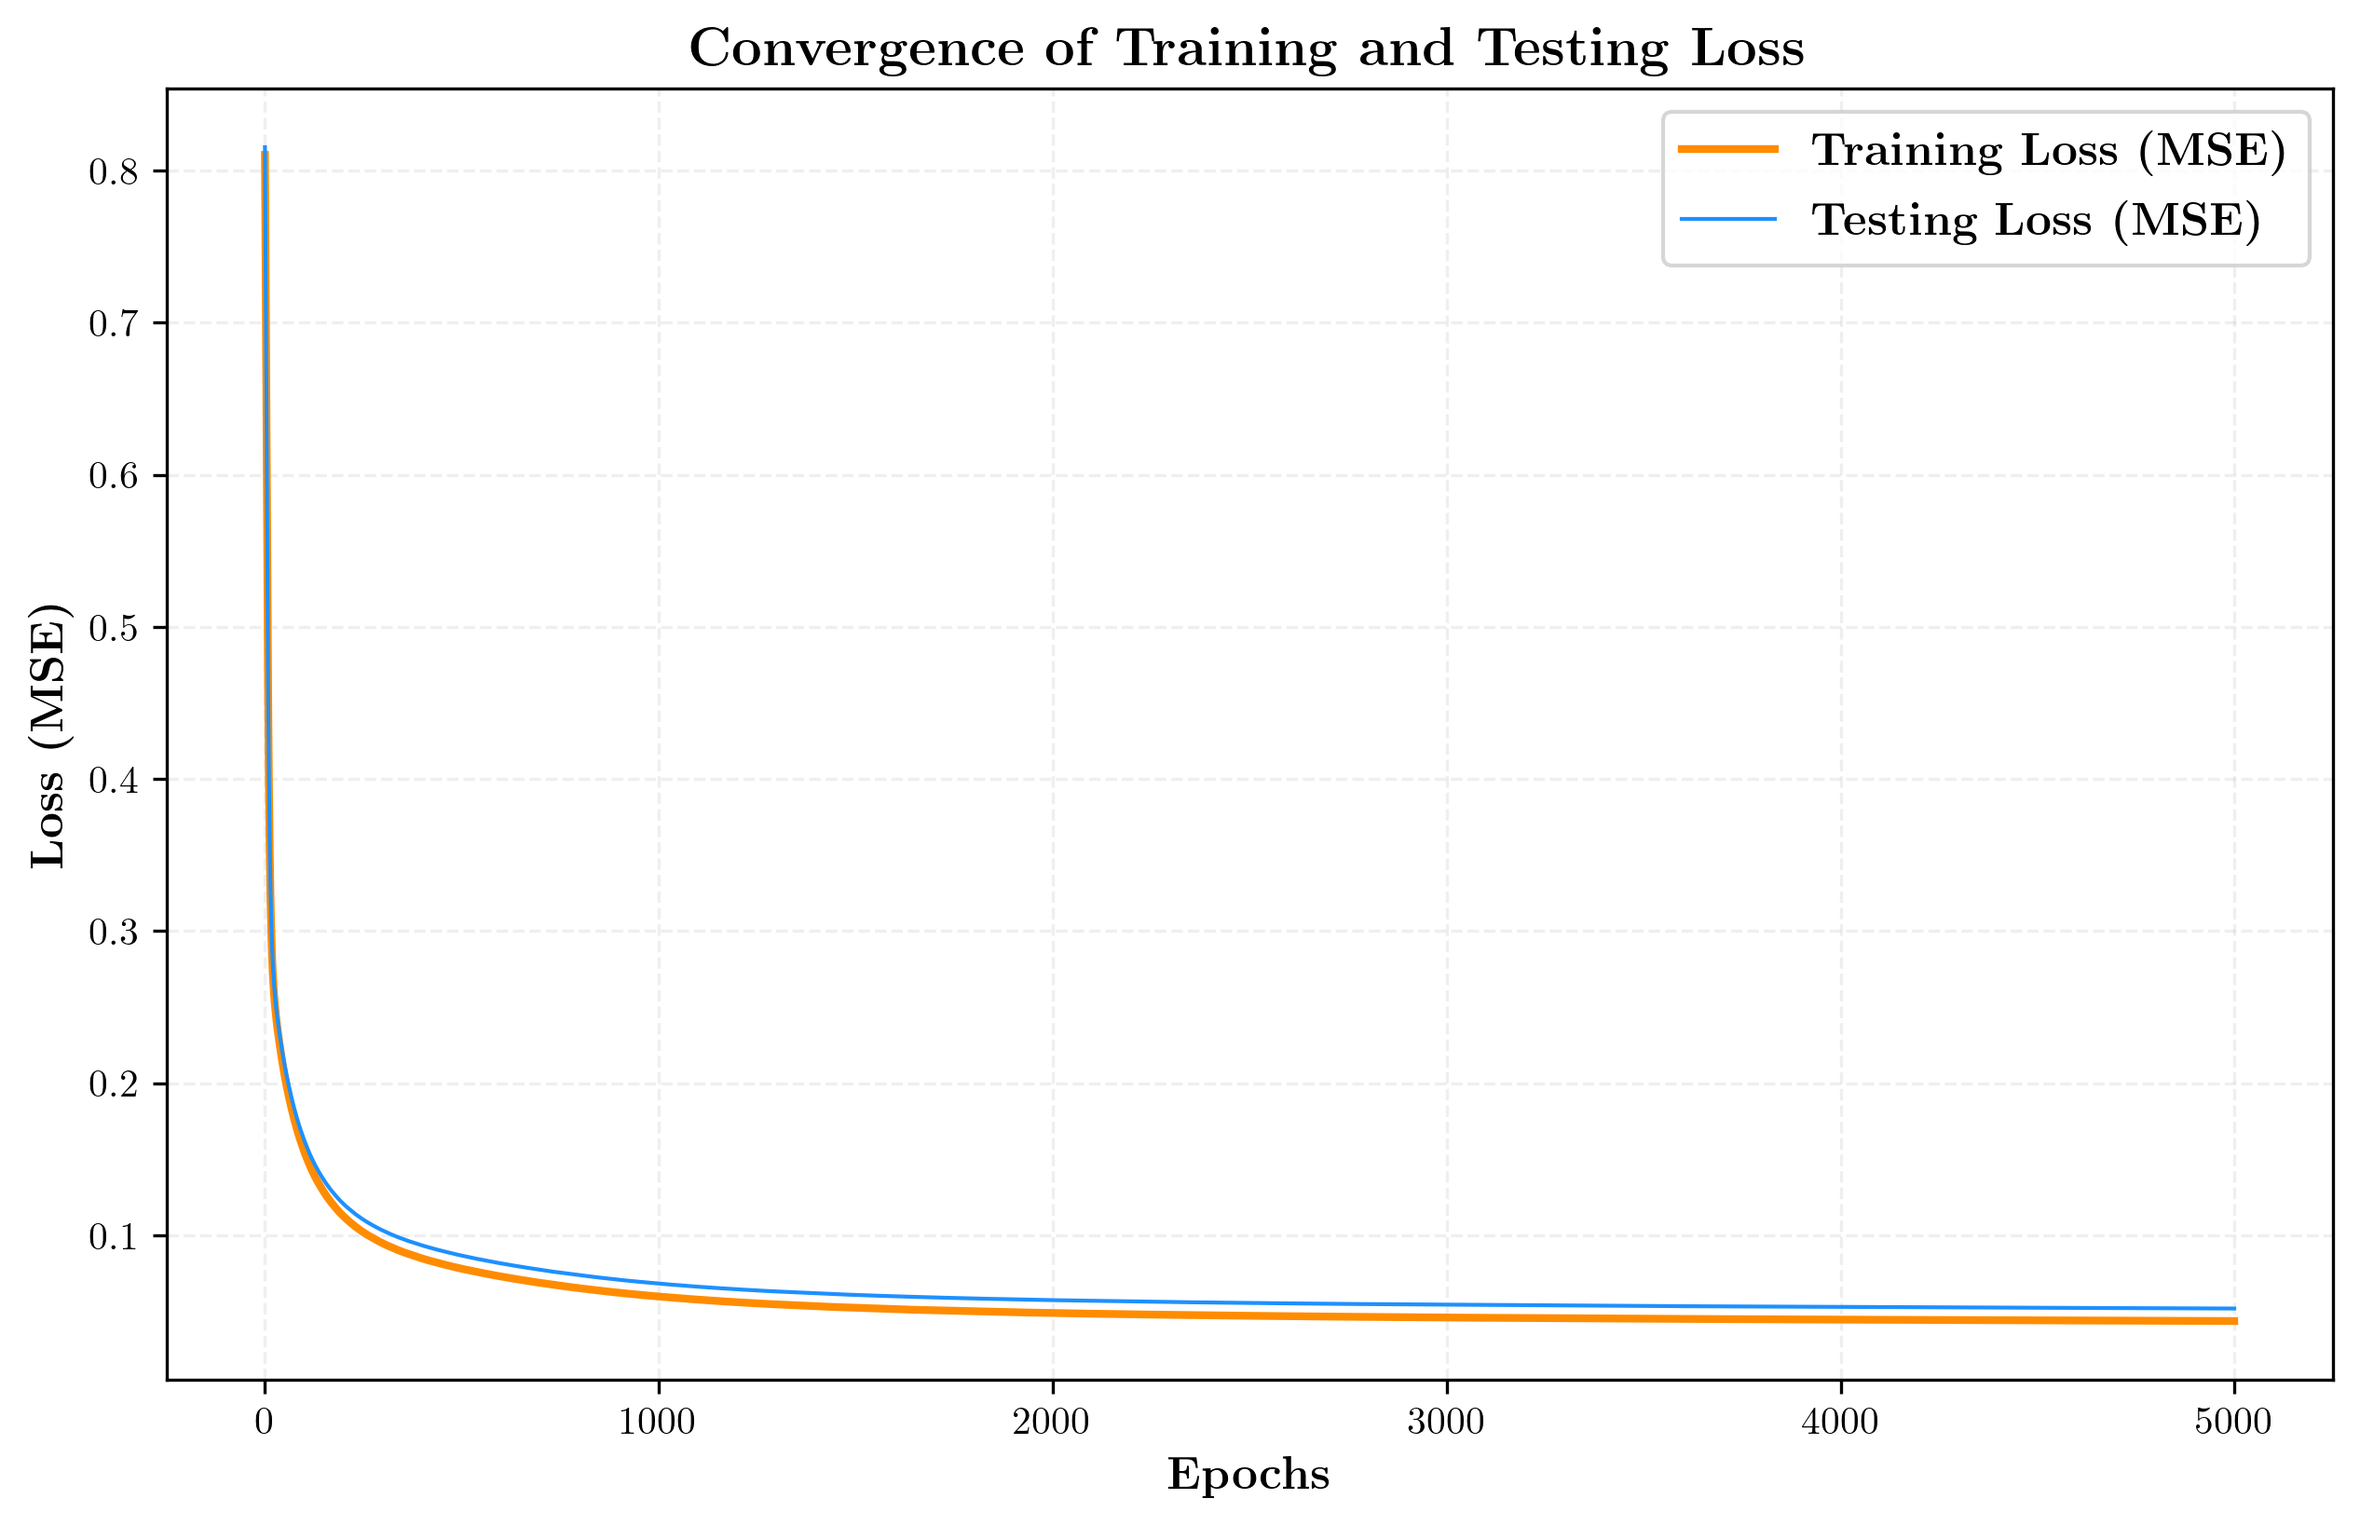
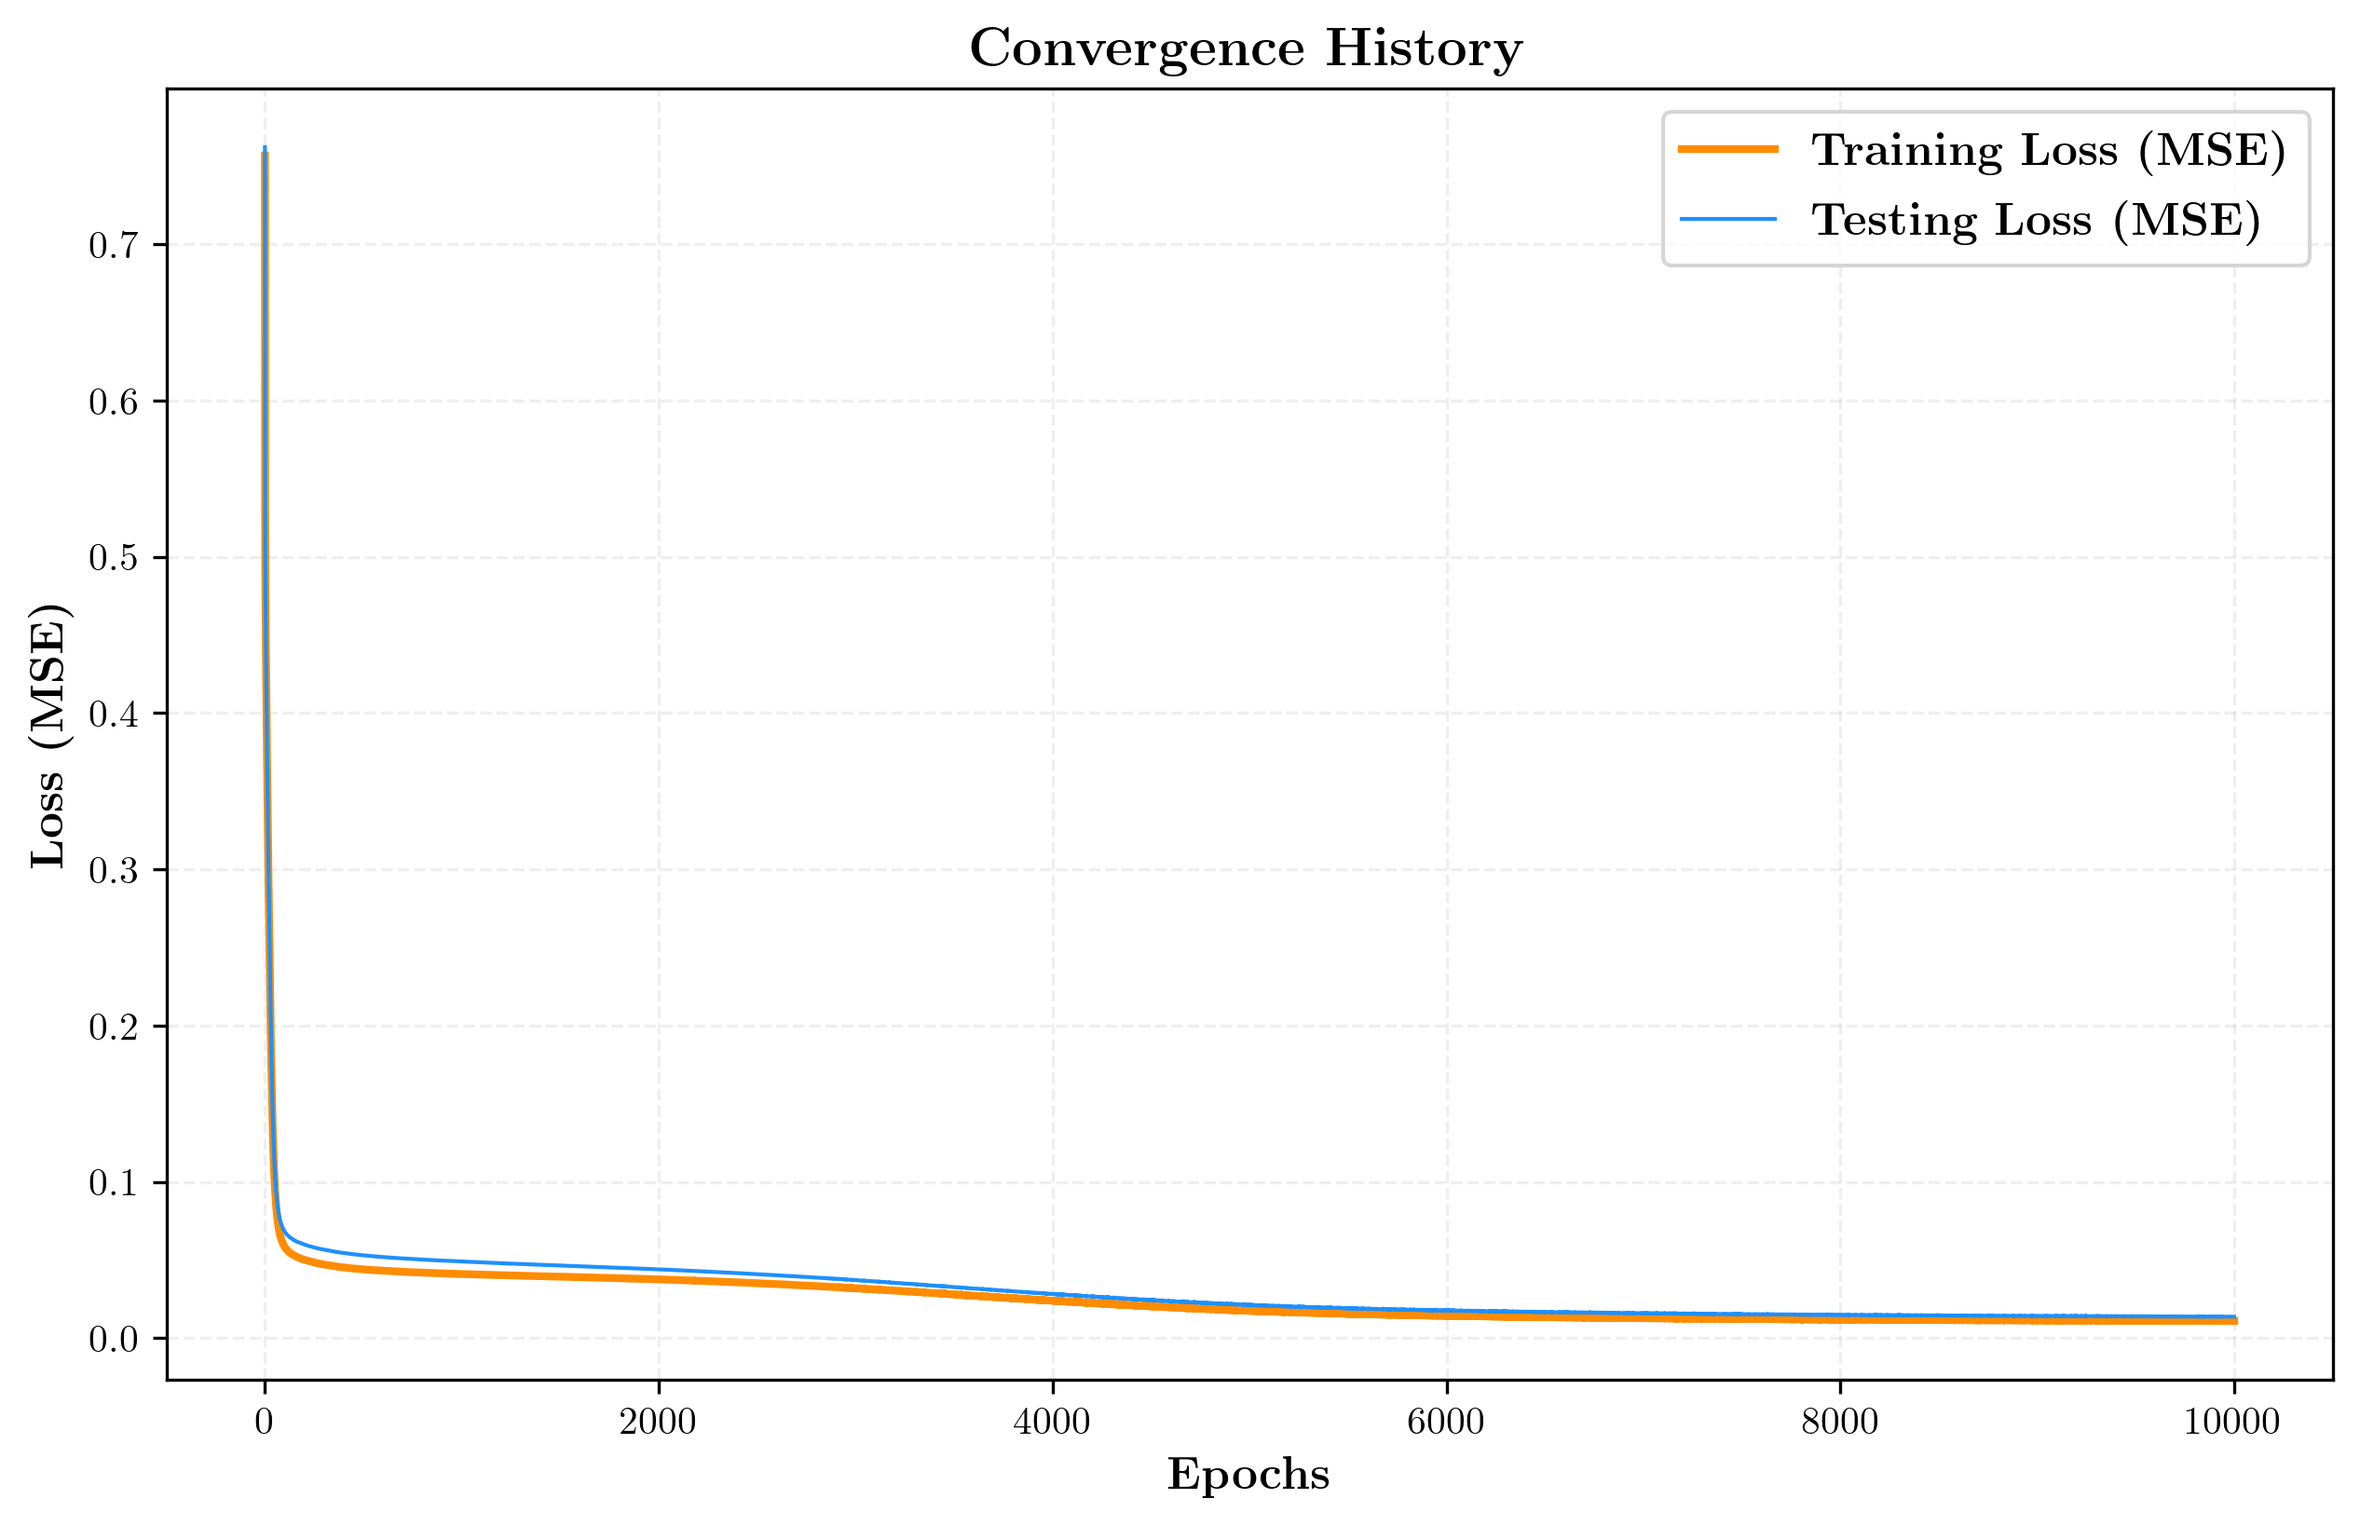
Added R2 score calculation.

diff --git a/assignment-1/sine_runner.py b/assignment-1/sine_runner.py
@@ -1,13 +1,20 @@
 import numpy as np
 import matplotlib.pyplot as plt
 from network import Networks
-from config import (mini_batch_size, learning_rate, num_iterations, 
+from sine_config import (mini_batch_size, learning_rate, num_iterations, 
                     layers_dims, lambda_reg, use_adam, beta1, beta2, epsilon, 
                     activation)
 
+# Function to calculate R² score
+def calculate_r2(y_true, y_pred):
+    y_true, y_pred = np.array(y_true), np.array(y_pred)
+    ss_res = np.sum((y_true - y_pred) ** 2)
+    ss_tot = np.sum((y_true - np.mean(y_true)) ** 2)
+    return 1 - (ss_res / ss_tot)
+
 # Generate training data
 def generate_sine_data(samples=1000):
-    x = np.linspace(0, 2 * np.pi, samples)
+    x = np.linspace(-2 * np.pi, 2 * np.pi, samples)
     y = np.sin(x)
     training_data = [(np.reshape(i, (1, 1)), np.reshape(j, (1, 1))) for i, j in zip(x, y)]
     return training_data
@@ -31,10 +38,17 @@ training_loss, testing_loss = net.SGD(training_data, epochs=num_iterations,
                                         test_data=testing_data)
 
 # Testing the network on new data
-test_x = np.linspace(0, 2 * np.pi, 100)
+test_x = np.linspace(-2 * np.pi, 2 * np.pi, 100)
 test_y = np.sin(test_x)
 predicted_y = [net.feedforward(np.reshape(i, (1, 1))) for i in test_x]
 predicted_y = np.array(predicted_y).flatten()
+
+# Ensure predictions are numeric
+predicted_y = np.clip(predicted_y, -10, 10)  # Clip large values
+
+# Calculate R² for the testing set
+r2 = calculate_r2(test_y, predicted_y)
+print(f"Test R²: {r2:.4f}")
 
 # Use LaTeX for fonts
 plt.rcParams['text.usetex'] = True
@@ -43,10 +57,10 @@ plt.rcParams['font.serif'] = ['Computer Modern Roman']
 
 # Plotting the actual vs predicted sine wave
 plt.figure(figsize=(10, 6))
-plt.plot(test_x, test_y, label=r'\textbf{Actual Sine}', color='darkorange', linewidth=2)
-plt.plot(test_x, predicted_y, label=r'\textbf{Predicted Sine}', linestyle='dashed', color='dodgerblue', linewidth=2)
+plt.plot(test_x, test_y, label=r'\textbf{Actual sine}', color='darkorange', linewidth=2)
+plt.plot(test_x, predicted_y, label=r'\textbf{Predicted sine}', linestyle='dashed', color='dodgerblue', linewidth=2)
 
-plt.title(r'\textbf{Prediction vs Actual Sine Wave}', fontsize=14)
+plt.title(r'\textbf{Predicted vs actual sine wave}', fontsize=14)
 plt.xlabel(r'$x$', fontsize=12)
 plt.ylabel(r'$\sin(x)$', fontsize=12)
 
@@ -59,10 +73,25 @@ plt.figure(figsize=(10, 6))
 plt.plot(training_loss, label=r'\textbf{Training Loss (MSE)}', color='darkorange', linewidth=2)
 plt.plot(testing_loss, label=r'\textbf{Testing Loss (MSE)}', color='dodgerblue', linewidth=1)
 
-plt.title(r'$\textbf{Convergence of Training and Testing Loss}$', fontsize=14)
+plt.title(r'$\textbf{Convergence History}$', fontsize=14)
 plt.xlabel(r'$\textbf{Epochs}$', fontsize=12)
 plt.ylabel(r'$\textbf{Loss (MSE)}$', fontsize=12)
 
 plt.grid(True, linestyle='--', alpha=0.2)
 plt.legend(loc='best', fontsize=12)
 plt.savefig("loss_convergence.png", dpi=300, bbox_inches='tight')
+
+# Scatter plot for R²
+plt.figure(figsize=(10, 6))
+plt.scatter(test_y, predicted_y, color='dodgerblue', alpha=0.7)
+plt.plot([-1, 1], [-1, 1], color='darkorange', linestyle='dashed', linewidth=1)  # Line for perfect predictions
+
+plt.title(r'\textbf{R²: Predicted vs True Values}', fontsize=14)
+plt.xlabel(r'$\textbf{True Values}$', fontsize=12)
+plt.ylabel(r'$\textbf{Predicted Values}$', fontsize=12)
+
+# Display R² score on the plot
+plt.annotate(f'R²: {r2:.4f}', xy=(0.5, 0.1), xycoords='axes fraction', fontsize=12, ha='center', color='black', bbox=dict(boxstyle="round,pad=0.3", edgecolor='none', facecolor='lightgray'))
+
+plt.grid(True, linestyle='--', alpha=0.2)
+plt.savefig("r2_scatter_plot.png", dpi=300, bbox_inches='tight')

diff --git a/assignment-1/sine_config.py b/assignment-1/sine_config.py
@@ -1,19 +1,19 @@
 # Configuration for ANN
 
 # Set hyperparameters
-mini_batch_size = 128
-learning_rate = 0.001
-num_iterations = 5000
+mini_batch_size = 64
+learning_rate = 0.01
+num_iterations = 10000
 activation = "tanh" # or 'sigmoid', 'relu', etc.
 
 # Regularization
-regularisation = "none"  # none or L2
+regularisation = "L2"  # none or L2
 lambda_reg = 0.1
 
 # Optimizer
-use_adam = False  # Set to False if you want to use standard gradient descent
+use_adam = True # Set to False if you want to use standard gradient descent
 beta1 = 0.9
-beta2 = 0.999
+beta2 = 0.99
 epsilon = 1e-8
 
 # Define model

diff --git a/assignment-1/network.py b/assignment-1/network.py
@@ -3,7 +3,7 @@ import numpy as np
 from activations import tanh, tanh_prime, sigmoid, sigmoid_prime, relu, relu_prime
 
 class Networks(object):
-    def __init__(self, sizes, activation='tanh', use_adam=False, beta1=0.9, beta2=0.999, epsilon=1e-8, lambda_reg=0.0):
+    def __init__(self, sizes, activation='tanh', use_adam=False, beta1=0.9, beta2=0.99, epsilon=1e-8, lambda_reg=0.0):
         self.num_layers = len(sizes)
         self.sizes = sizes
         
